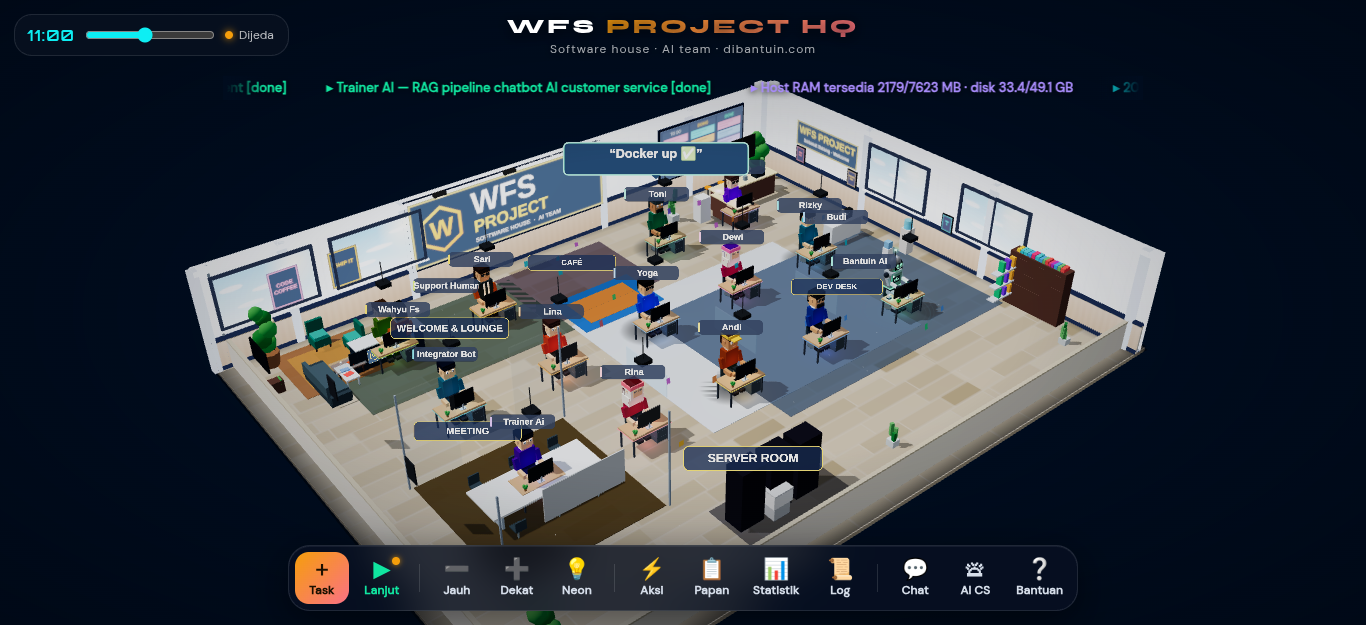
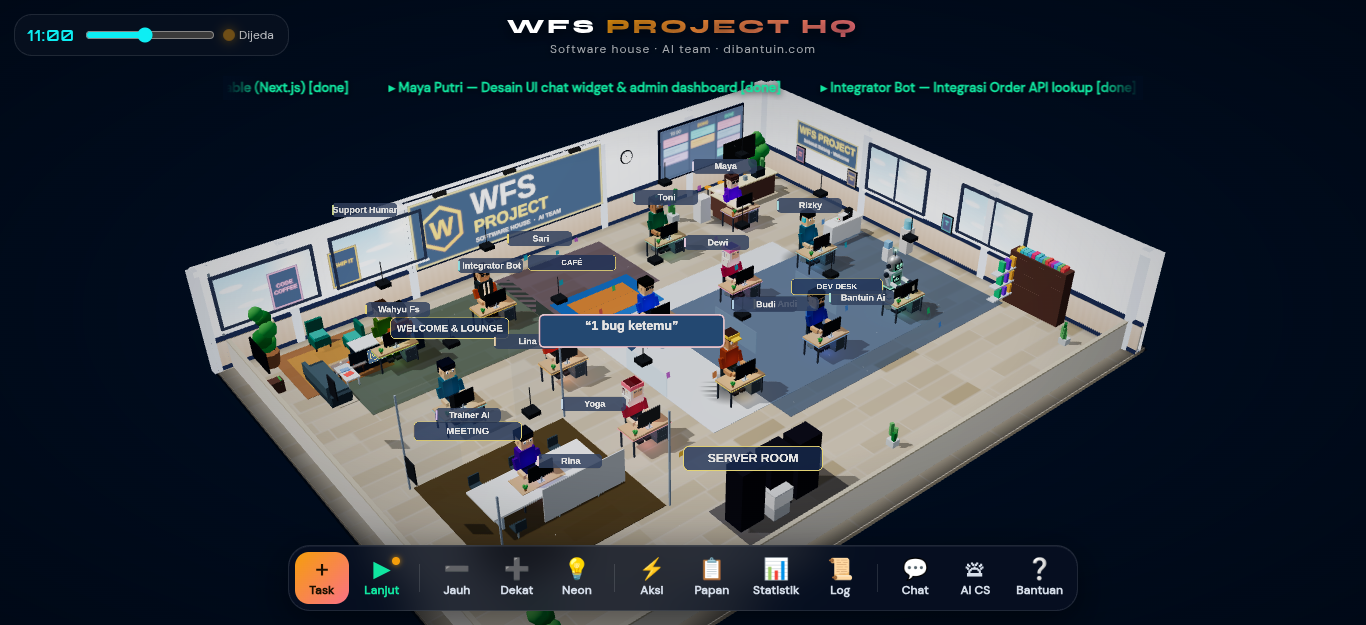
auto: update 2026-10-17 23:00 WIB

diff --git a/src/scene/OfficeScene.js b/src/scene/OfficeScene.js
@@ -1757,17 +1757,19 @@ function animate(){
         const dz=Math.max(2,camera.position.distanceTo(zt.position));
         // jitter deterministik per zona (hash label) supaya kluster label zona+agent tidak membentuk tumpukan simetris
       // base dari posisi ASLI (bukan position.y yang sudah digeser frame lalu) -> tidak terakumulasi
+      // base zona = posisi ASLI (antiY/antiX diakumulasi di userData, bukan di posisi)
       const zb=(window.__zoneBase&&window.__zoneBase.get(zt))||{y:zt.position.y,x:zt.position.x};
+      const zay=(zt.userData.antiY||0), zax=(zt.userData.antiX||0);
       let hsh=0;for(const ch of zt.userData.label||'')hsh=(hsh*31+ch.charCodeAt(0))|0;
       const jy=(hsh%7)-3, jx=((hsh>>3)%9)-4;
-      pts.push({a:null,zone:true,zt,zw:zt.scale.x*__kz/dz*1.06,zh:zt.scale.y*__kz/dz*1.25,baseY:zb.y+jy*0.06,baseX:zb.x+jx*0.08,x:v.x*container.clientWidth/2,y:v.y*container.clientHeight/2,offY:0,offX:0});});}
+      pts.push({a:null,zone:true,zt,zw:zt.scale.x*__kz/dz*1.06,zh:zt.scale.y*__kz/dz*1.25,baseY:zb.y+jy*0.06+zay,baseX:zb.x+jx*0.08+zax,x:v.x*container.clientWidth/2,y:v.y*container.clientHeight/2,offY:0,offX:0});});}
     // bubble dialog ikut sebagai penghalang statis: label zona digeser menjauh dari bubble (bubble tidak bergerak)
     chatBubbles.forEach(bb=>{const v=bb.sprite.position.clone().project(camera);if(v.z>1)return;
       const db=Math.max(2,camera.position.distanceTo(bb.sprite.position)), pk=container.clientHeight/(2*Math.tan(camera.fov*Math.PI/360));
       // bubble: sizeAttenuation=false -> piksel konstan (scale sudah fraksi tinggi layar × __k)
       pts.push({a:null,zone:true,zt:null,bub:bb.sprite,zw:bb.sprite.scale.x*pk,zh:bb.sprite.scale.y*pk,baseY:bb.sprite.position.y,baseX:bb.sprite.position.x,x:v.x*container.clientWidth/2,y:v.y*container.clientHeight/2,offY:0,offX:0});});
     const __L=agentData[0].label;
-    for(let iter=0;iter<3;iter++){ // multi-pass: satu pass hanya menggeser sedikit, 3 pass menjamin kluster padat benar2 terpisah
+    for(let iter=0;iter<5;iter++){ // multi-pass: satu pass hanya menggeser sedikit, 3 pass menjamin kluster padat benar2 terpisah
     for(let i=0;i<pts.length;i++){for(let j=0;j<i;j++){
       // PAD = breathing room: box diperluas 10px per sisi supaya label tak "menempel" (<5px gap)
       const PAD=18, lwi=(pts[i].sw||pts[i].zw||0)+PAD, lhi=(pts[i].sh||pts[i].zh||0)+PAD,
@@ -1776,8 +1778,16 @@ function animate(){
       if(dx<(lwi+lwj)/2 && dy<(lhi+lhj)/2){
         // geser vertikal dulu; bila vertikal mentok, geser horizontal ke arah bebas
         const h2=((lhi+lhj)/2)-dy, w2=((lwi+lwj)/2)-dx;
-        if(!pts[i].zone){pts[i].offY+=h2*1.6;const dir=(pts[i].x>=pts[j].x)?1:-1;pts[i].offX+=dir*w2*0.9;}
-        else if(!pts[j].zone){pts[j].offY-=h2*1.6;const dir=(pts[j].x>=pts[i].x)?1:-1;pts[j].offX+=dir*w2*0.9;}
+        if(!pts[i].zone&&!pts[j].zone){ // agent-agent: saling dorong dua arah
+          pts[i].offY+=h2*0.8;pts[j].offY-=h2*0.8;
+          const dir=(pts[i].x>=pts[j].x)?1:-1;pts[i].offX+=dir*w2*0.45;pts[j].offX-=dir*w2*0.45;
+        }
+        else if(!pts[i].zone){ // agent vs penghalang: hanya agent yang bergeser
+          pts[i].offY+=h2*1.6;const dir=(pts[i].x>=pts[j].x)?1:-1;pts[i].offX+=dir*w2*0.9;
+        }
+        else if(!pts[j].zone){
+          pts[j].offY-=h2*1.6;const dir=(pts[j].x>=pts[i].x)?1:-1;pts[j].offX+=dir*w2*0.9;
+        }
       }
     }}
     } // end 2-pass anti-overlap
@@ -1785,7 +1795,7 @@ function animate(){
     const dist=camera.position.distanceTo(tgt), worldPerPx=2*dist*Math.tan(camera.fov*Math.PI/360)/container.clientHeight;
     pts.forEach(p=>{
       const dy=Math.min(10,p.offY*worldPerPx*1.2), dx=Math.max(-2.5,Math.min(2.5,p.offX*worldPerPx));
-      if(p.zone){if(p.zt){p.zt.position.y=p.baseY+dy; p.zt.position.x=p.baseX+dx;} else if(p.bub){p.bub.position.y=p.baseY+dy*0.4; p.bub.position.x=p.baseX+dx*0.5;} return;} // zona/bubble
+      if(p.zone){if(p.zt){const dyz=Math.max(-25,Math.min(25,p.offY*worldPerPx*1.2)), dxz=Math.max(-6,Math.min(6,p.offX*worldPerPx)); p.zt.position.y=p.baseY+dyz; p.zt.position.x=p.baseX+dxz; const zu=p.zt.userData; zu.antiY=(zu.antiY||0)+dyz; zu.antiX=(zu.antiX||0)+dxz;} else if(p.bub){p.bub.position.y=p.baseY+dy*0.4; p.bub.position.x=p.baseX+dx*0.5;} return;} // zona/bubble
       p.a.label.position.y=p.baseY+dy; p.a.label.position.x=p.baseX+dx;
       p.a.label.userData.antiY=dy; p.a.label.userData.antiX=dx; // utk base frame berikutnya
     });
